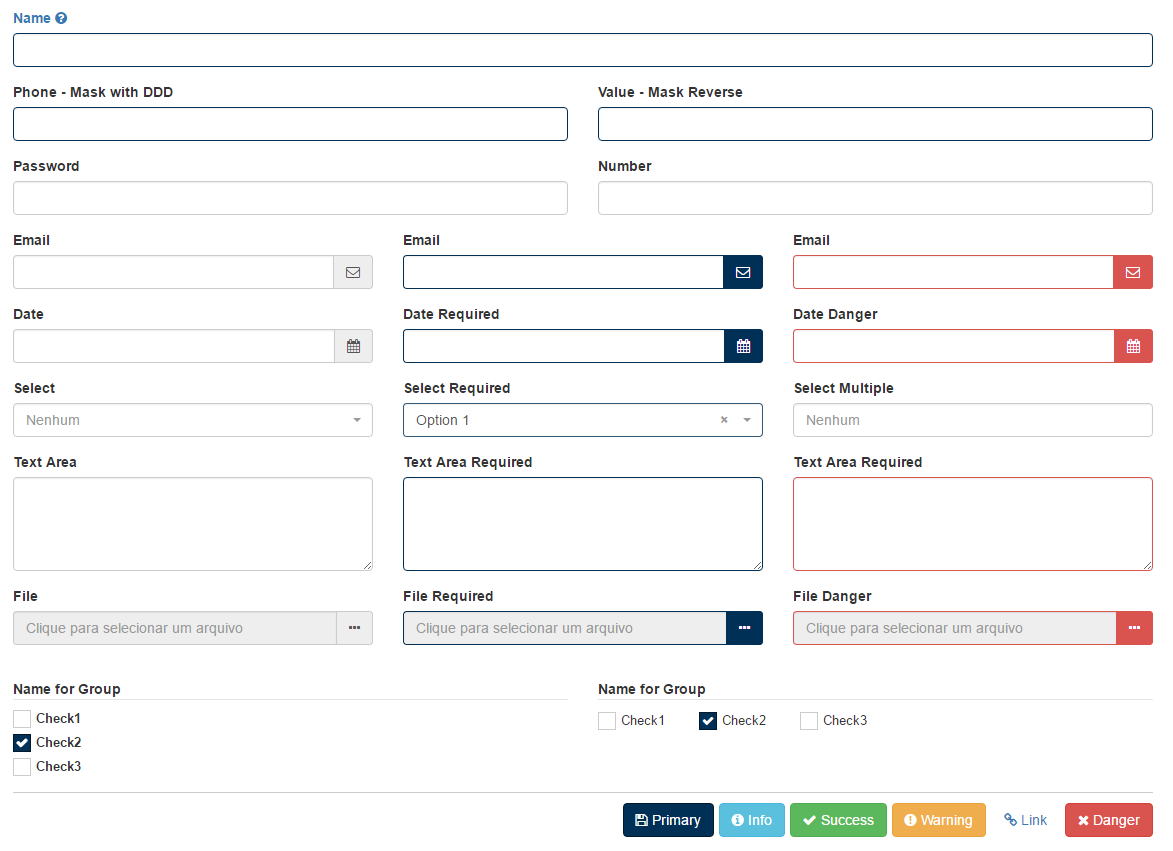
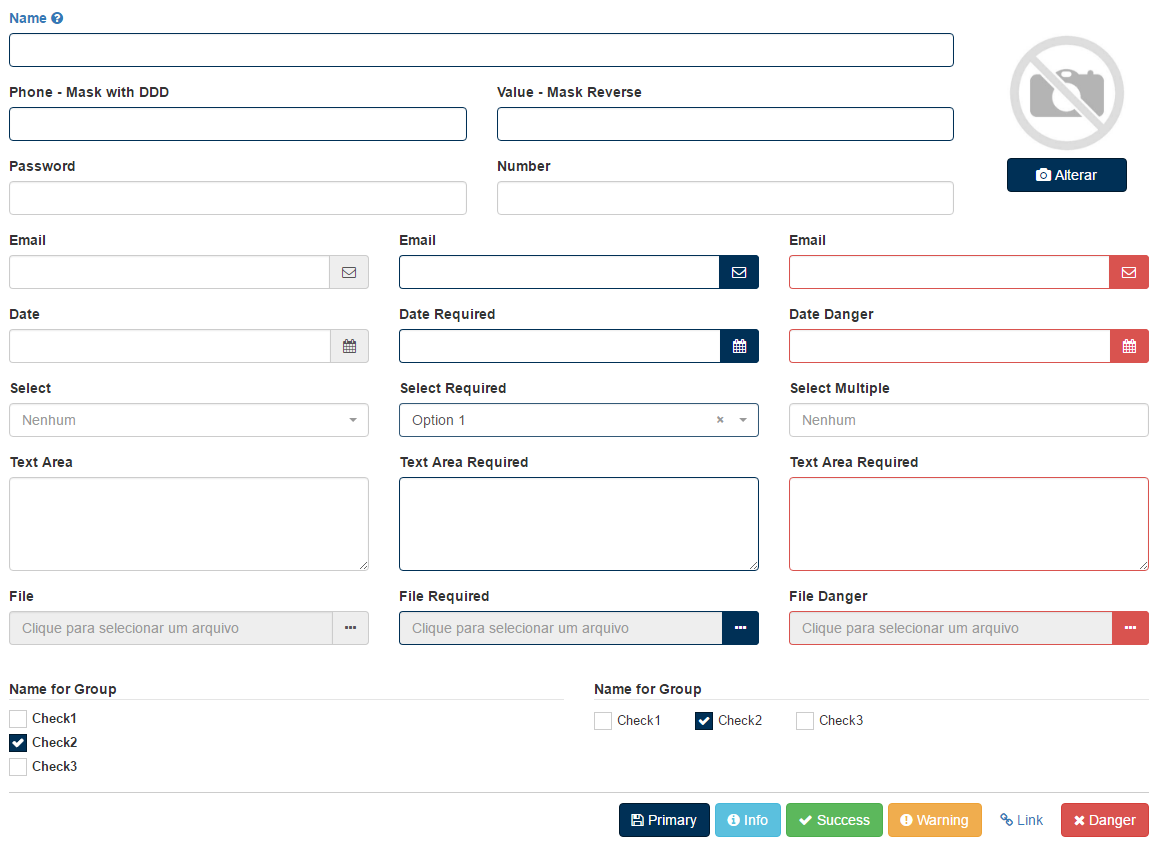
Included ImageElement

diff --git a/resources/assets/sass/_imageupload.scss b/resources/assets/sass/_imageupload.scss
@@ -1,0 +1,23 @@
+.image-update-component {
+
+  padding-top: 20px;
+  width: 100%;
+  text-align: center;
+
+  img, a {
+    width: 100%;
+    max-width: 120px;
+  }
+
+  .image-input-file {
+    position: relative;
+    float: right;
+    top: -34px;
+    height: 34px;
+    right: 0;
+    opacity:0;
+    -moz-opacity:0;
+    width: 100%;
+    z-index: 1000;
+  }
+}

diff --git a/resources/assets/sass/form.scss b/resources/assets/sass/form.scss
@@ -3,4 +3,5 @@
 @import "base";
 @import "select2-theme";
 @import "fileupload";
+@import "imageupload";
 @import "checkable";

diff --git a/src/Form/Elements/ImageElement.php b/src/Form/Elements/ImageElement.php
@@ -1,0 +1,70 @@
+<?php
+
+/*
+ * This file is part of the fireguard/form package.
+ *
+ * (c) Ronaldo Meneguite <ronaldo@fireguard.com.br>
+ *
+ * For the full copyright and license information, please view the LICENSE
+ * file that was distributed with this source code.
+ */
+
+namespace Fireguard\Form\Elements;
+
+use Fireguard\Form\Contracts\FormElementInterface;
+use Fireguard\Form\Contracts\FormInputInterface;
+
+class ImageElement extends AbstractElement implements FormElementInterface, FormInputInterface
+{
+
+    public function __construct($name, array $options = [])
+    {
+        parent::__construct($name, $options);
+        $this->createScript($this->html->getIdAttribute($this->options));
+    }
+
+    public function getType()
+    {
+        return 'file';
+    }
+
+    public function render()
+    {
+        $elementId = $this->html->getIdAttribute($this->options);
+        $element = $this->createBoxPreviewImage($elementId).$this->createActionsElement();
+        return '<div class="image-update-component">'.$element.'</div>';
+    }
+
+    protected function createScript($elementId)
+    {
+        $script  = 'jQuery("#'.$elementId.'").change(function(){ ';
+        $script .= ' if ( this.files && this.files[0] ) {';
+        $script .= '   var reader = new FileReader();';
+        $script .= '   reader.onload = function(e) {';
+        $script .= '     jQuery("#image-'.$elementId.'").attr("src", e.target.result);';
+        $script .= '   };';
+        $script .= '   reader.readAsDataURL(this.files[0]);';
+        $script .= '  }';
+        $script .= '});';
+
+        $this->appendScript($script);
+    }
+
+    protected function createBoxPreviewImage($elementId)
+    {
+        $value = $this->getValue();
+        $imageSrc = !empty($value) ? $value : '/assets/images/no-image.jpg';
+        return '<div class="image-component-box"><img id="image-'.$elementId.'" src="'.$imageSrc.'" alt="Image"></div>';
+    }
+
+    protected function createActionsElement()
+    {
+        $this->options['class'] = 'image-input-file';
+        $this->options['accept'] = 'image/*';
+        $options = $this->getFormattedOptions();
+        if (isset($options['required']) && !empty($options['value'])) $options['required'] = false;
+        unset($options['value']);
+        $input = '<input'.$this->html->getElementAttributes($options). '>';
+        return '<a class="btn btn-primary"><i class="fa fa-camera"></i> Alterar</a>'.$input;
+    }
+}

diff --git a/tests/Form/Elements/ImageElementTest.php b/tests/Form/Elements/ImageElementTest.php
@@ -1,0 +1,42 @@
+<?php
+
+/*
+ * This file is part of the fireguard/form package.
+ *
+ * (c) Ronaldo Meneguite <ronaldo@fireguard.com.br>
+ *
+ * For the full copyright and license information, please view the LICENSE
+ * file that was distributed with this source code.
+ */
+
+namespace Fireguard\Form\Elements;
+
+
+class ImageElementTest extends \PHPUnit_Framework_TestCase
+{
+    /**
+     * @var ImageElement
+     */
+    protected $element;
+
+    public function setUp()
+    {
+        $this->element = (new ImageElement('name-for-image'))->setValue('/assets/images/logo-image.png');
+    }
+
+    public function testRender()
+    {
+        $this->assertEquals(
+            '<div class="image-update-component"><div class="image-component-box"><img id="image-name-for-image-id" src="/assets/images/logo-image.png" alt="Image"></div><a class="btn btn-primary"><i class="fa fa-camera"></i> Alterar</a><input name="name-for-image" class="form-control image-input-file" accept="image/*" id="name-for-image-id" type="file"></div>',
+            $this->element->render()
+        );
+    }
+
+    public function testGetScripts()
+    {
+        $this->assertEquals(
+            'jQuery("#name-for-image-id").change(function(){  if ( this.files && this.files[0] ) {   var reader = new FileReader();   reader.onload = function(e) {     jQuery("#image-name-for-image-id").attr("src", e.target.result);   };   reader.readAsDataURL(this.files[0]);  }});',
+            $this->element->getScripts()
+        );
+    }
+}

diff --git a/src/Form/Elements/AbstractElement.php b/src/Form/Elements/AbstractElement.php
@@ -38,7 +38,7 @@ abstract class AbstractElement implements FormElementInterface
      *
      * @var array
      */
-    protected $skipValueTypes = ['file', 'password'];
+    protected $skipValueTypes = ['password', 'html'];
 
     /**
      * @var string
